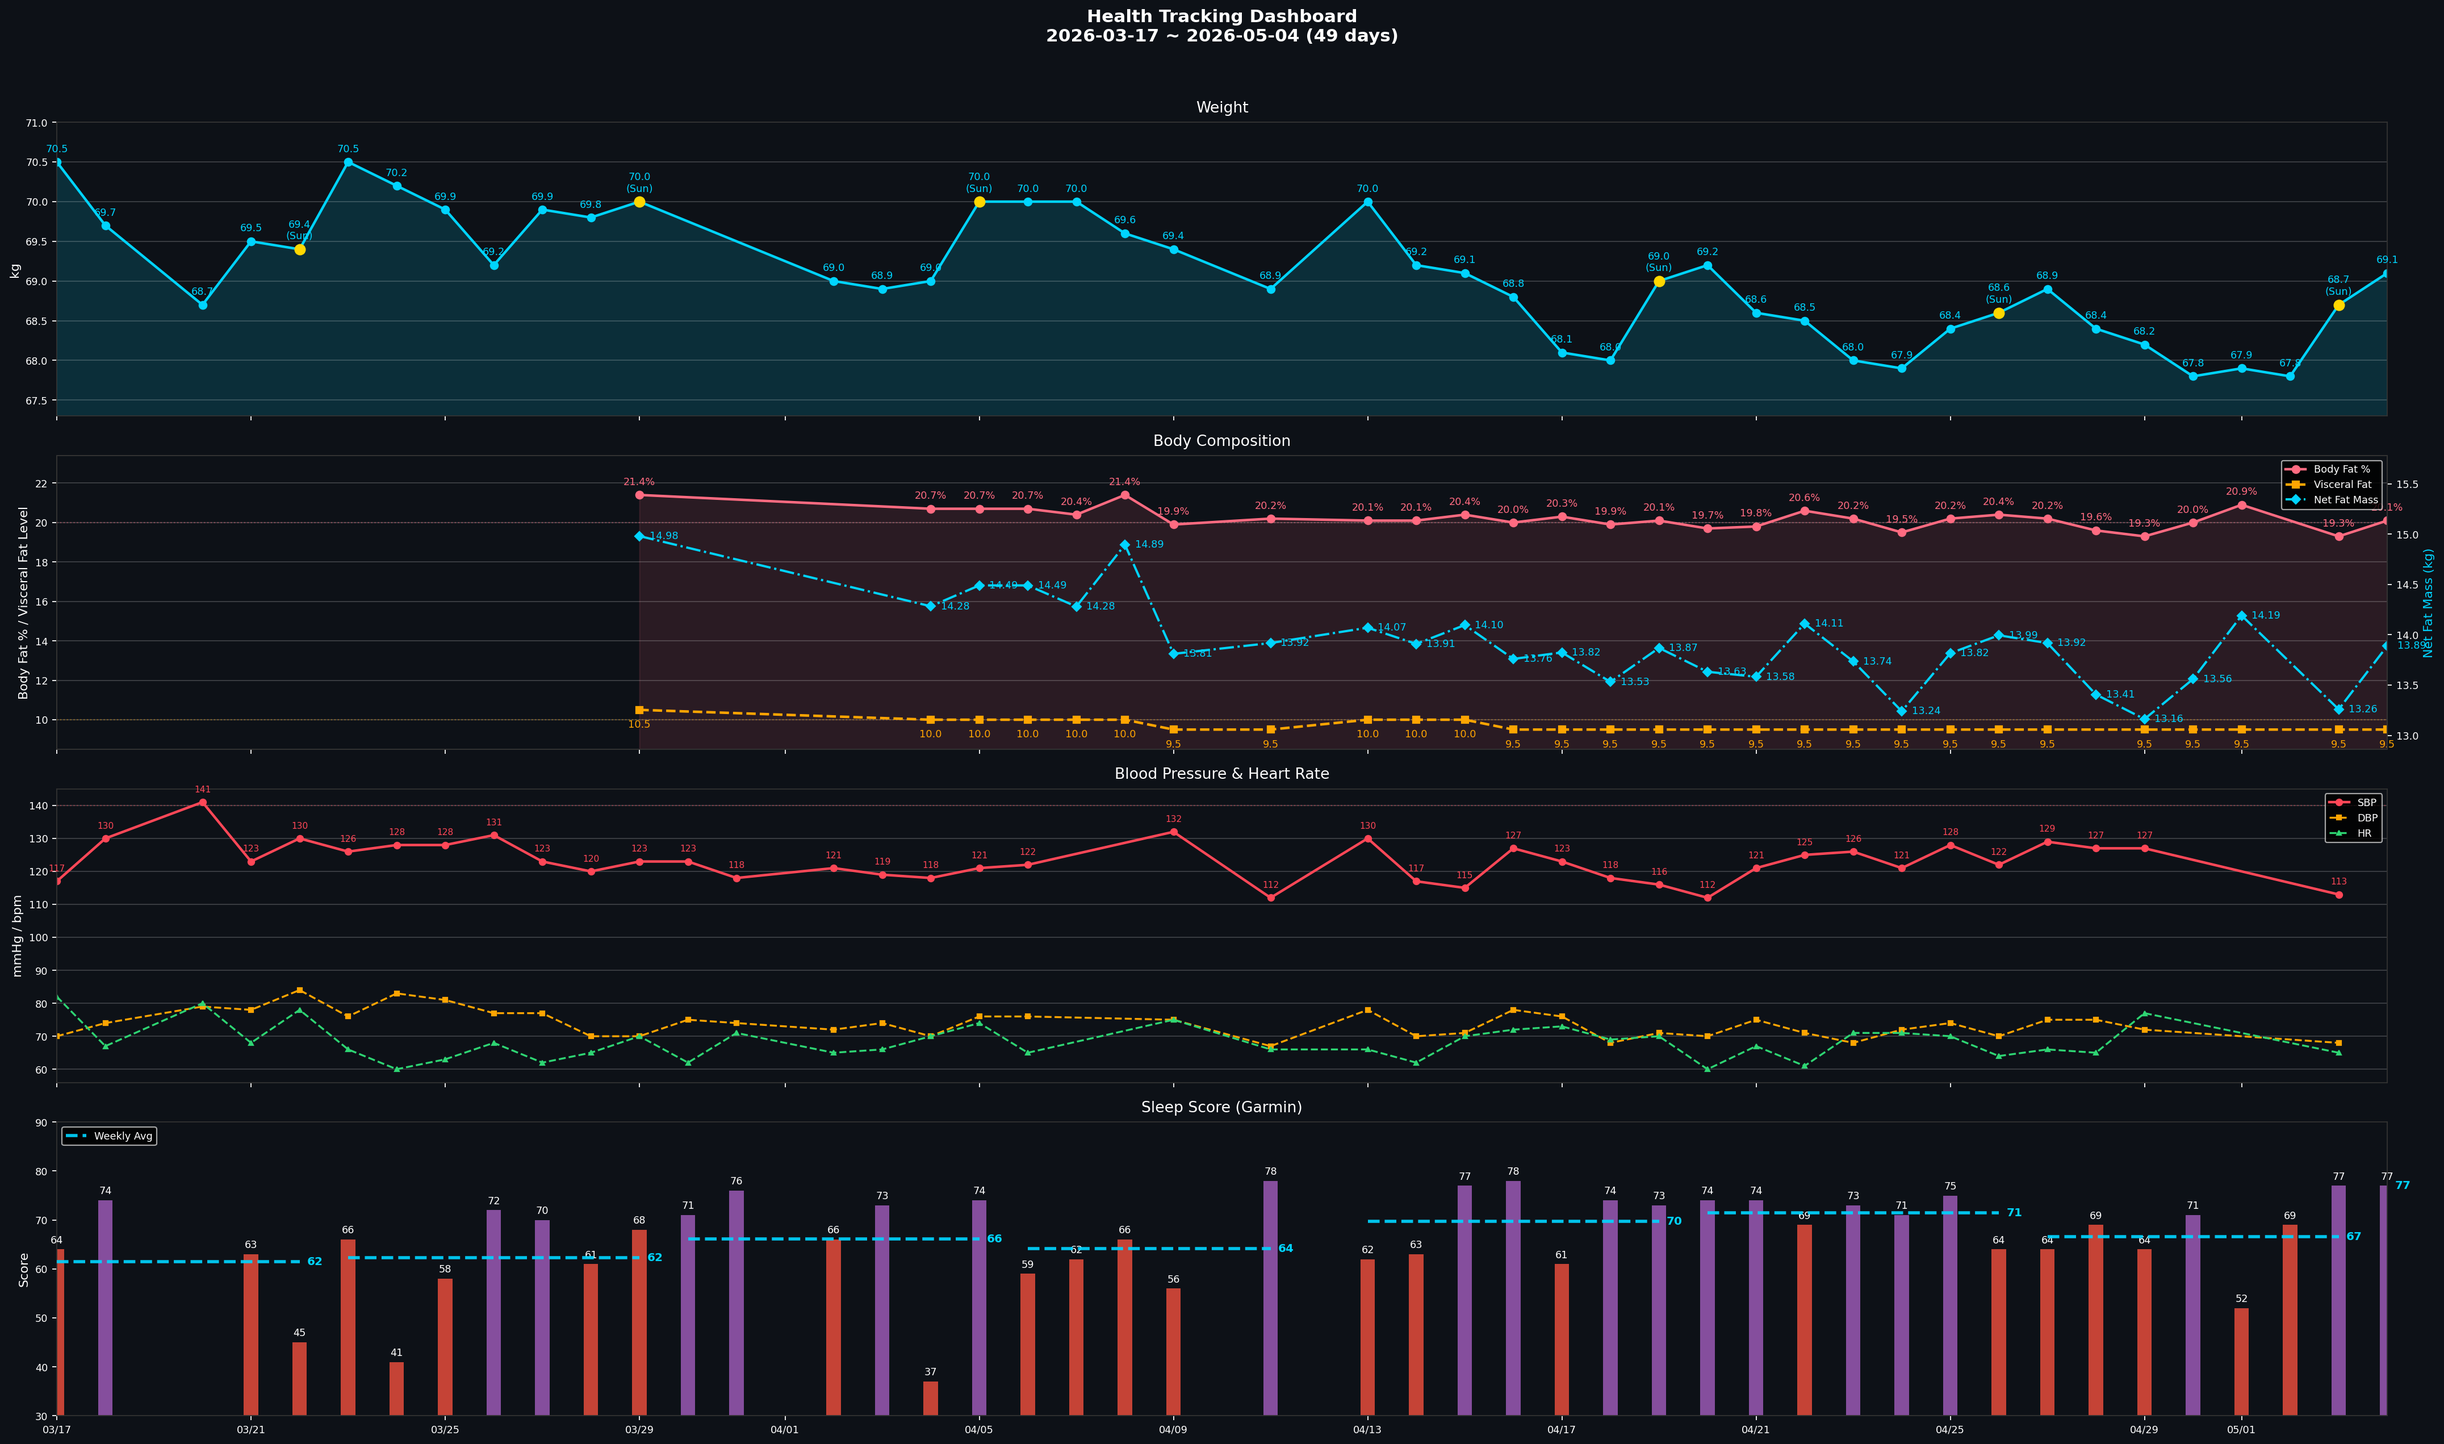
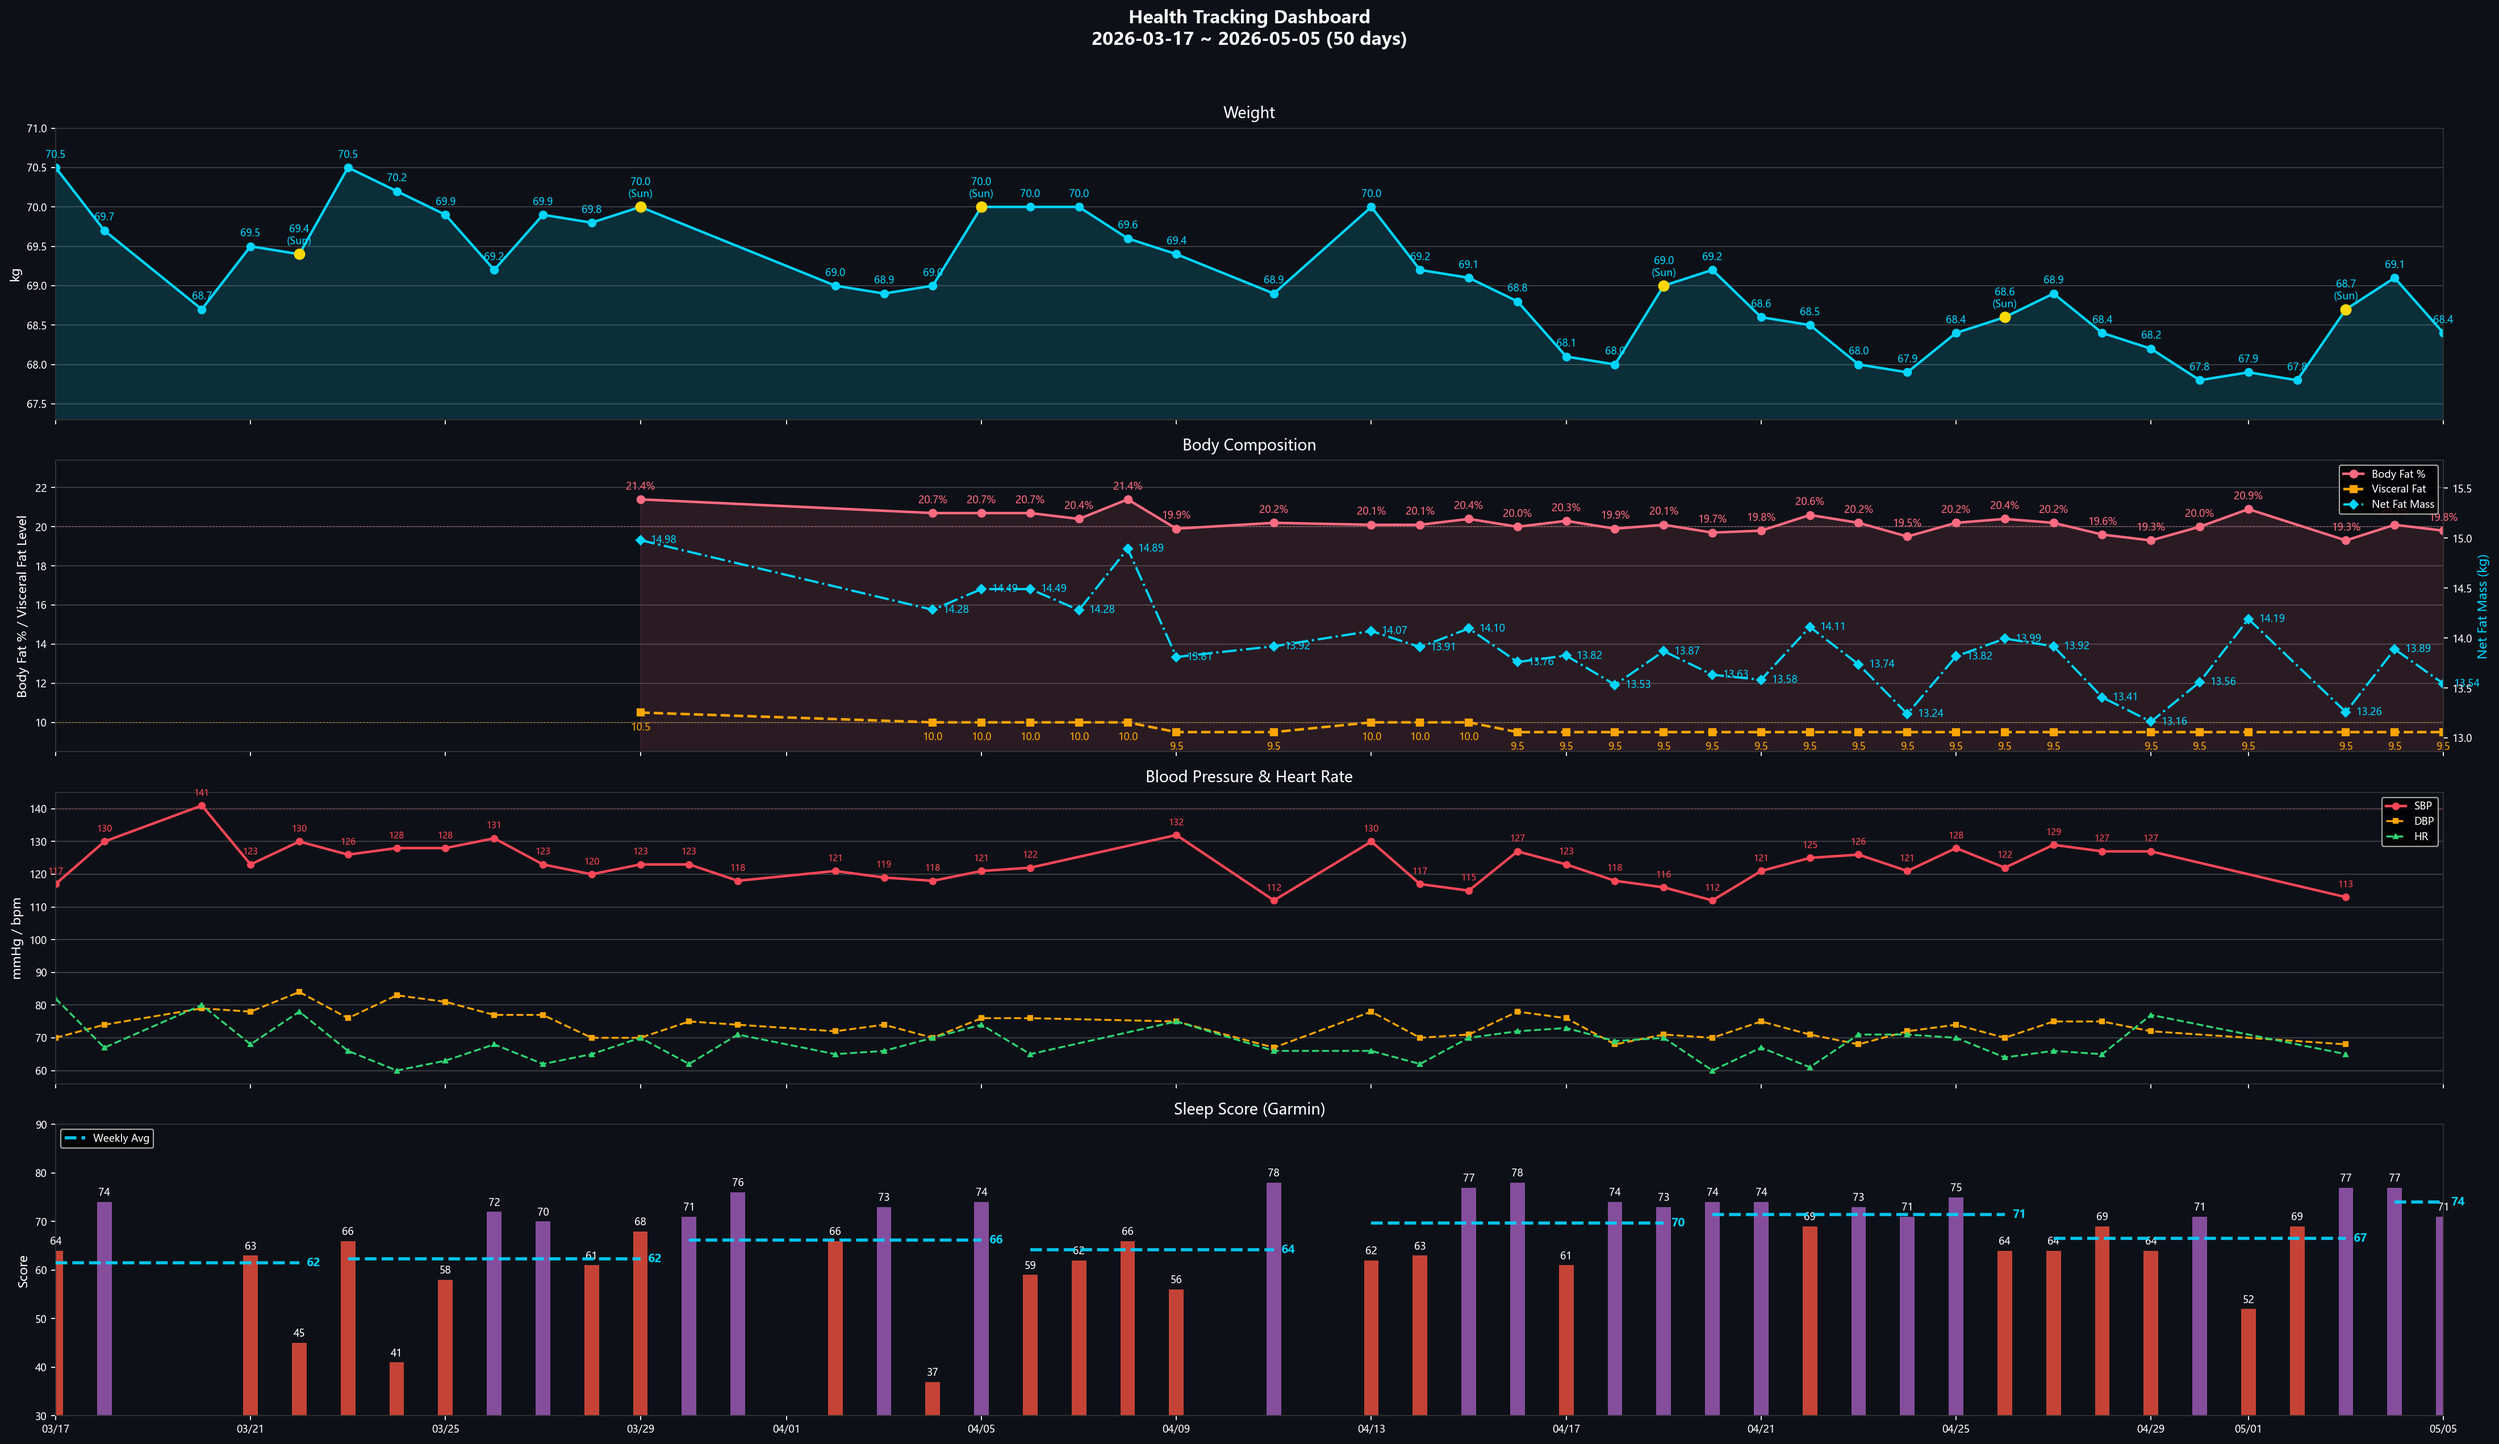
daily 2026-05-05: 體重 68.4kg、Sleep 71/BB47、SpO2 nadir 86% (POSA N1 反應佳)
- 體重 68.4 / 體脂 19.8% / 內脂 9.5
- 睡眠 23:07-05:22 (6h6m)、Sleep Score 71、BB 47、主觀恢復 4/5
- SpO2 nadir 86%、日均 95%；POSA Night 1：T90 18.4→9.7、nadir 80→86、events 20→16，初步反應佳
- 昨日飲水 2.5L (已回寫 Garmin)
- 身體信號：清
- BP：N/A

diff --git a/data.js b/data.js
@@ -9,8 +9,8 @@ window.HC_DATA = {
     lede:    { en: "Sleep, BP, lipids, uric acid — one shared metabolic root. Lifestyle stacks first; medication only after lifestyle plateaus.",
                zh: "睡眠、血壓、血脂、尿酸——共享同一個代謝根源。生活方式介入優先，等到效果平台期再考慮藥物。" },
     progressLbl: { en: "Weight progress · 70 → 65 kg", zh: "體重進度 · 70 → 65 公斤" },
-    progressMeta: { en: "Day 49 · 67.8 kg · Sat official (5/2)", zh: "第 49 天 · 67.8 公斤 · 週六正式（5/2）" },
-    startDate: { en: "Start date · Mar 17, 2026 · Last sync 5/4", zh: "起始日期 · 2026 年 3 月 17 日 · 最後同步 5/4" },
+    progressMeta: { en: "Day 50 · 67.8 kg · Sat official (5/2)", zh: "第 50 天 · 67.8 公斤 · 週六正式（5/2）" },
+    startDate: { en: "Start date · Mar 17, 2026 · Last sync 5/5", zh: "起始日期 · 2026 年 3 月 17 日 · 最後同步 5/5" },
     startWeight: 70,
     targetWeight: 65,
     currentWeight: 67.8,
@@ -27,7 +27,7 @@ window.HC_DATA = {
     },
     {
       sys: "sleep", name: { en: "Sleep Score", zh: "睡眠分數" },
-      val: "77", unit: "Garmin",
+      val: "71", unit: "Garmin",
       delta: { en: "5/4 · OSA flag: T90 18.4% (severe)", zh: "5/4 · OSA 紅旗：T90 18.4%（重度）" },
       cadence: { en: "Daily · Garmin", zh: "每日 · Garmin" },
       status: "warn",
@@ -820,14 +820,14 @@ window.HC_DATA = {
   tracker: {
     // [SBP, DBP] — gaps filled with prior reading
     bp: [
-      [121,75], [125,71], [126,68], [121,72], [128,74], [122,70], [129,75], [127,75], [127,72], [127,72], [127,72], [127,72], [113,68], [113,68],
+      [125,71], [126,68], [121,72], [128,74], [122,70], [129,75], [127,75], [127,72], [127,72], [127,72], [127,72], [113,68], [113,68], [113,68],
     ],
     // 4/21–5/4 daily weight (kg)
-    weight: [68.6, 68.5, 68, 67.9, 68.4, 68.6, 68.9, 68.4, 68.2, 67.8, 67.9, 67.8, 68.7, 69.1],
+    weight: [68.5, 68, 67.9, 68.4, 68.6, 68.9, 68.4, 68.2, 67.8, 67.9, 67.8, 68.7, 69.1, 68.4],
     // Garmin Sleep Score
-    sleep:  [74, 69, 73, 71, 75, 64, 64, 69, 64, 71, 52, 69, 77, 77],
+    sleep:  [69, 73, 71, 75, 64, 64, 69, 64, 71, 52, 69, 77, 77, 71],
     // Body Battery waking
-    bb:     [56, 60, 59, 34, 66, 60, 57, 57, 58, 51, 47, 41, 54, 49],
+    bb:     [60, 59, 34, 66, 60, 57, 57, 58, 51, 47, 41, 54, 49, 47],
   },
 
   // ===== Running — started 2026-04-26 =====

diff --git a/reviews/daily/2026-05-05.md b/reviews/daily/2026-05-05.md
@@ -1,0 +1,81 @@
+# 晨間健康紀錄 — 2026-05-05
+
+*3 分鐘。起床後立即完成。記錄，不分析。*
+
+---
+
+## 體重
+
+**今日：68.4 kg**
+**體脂率：19.8 %**
+**內臟脂肪等級：9.5**
+
+*每週六早晨為正式紀錄（排尿後、進食前；連 5 個工作日後、週末大餐前的真實低點）。其他日可選填。*
+
+---
+
+## 血壓（晨間）
+
+*起床後 1 小時內，上完廁所、進食前。坐下安靜 5 分鐘，連量兩次取第二次。*
+
+| 次數 | 收縮壓 | 舒張壓 | 心率 |
+|------|--------|--------|------|
+| 第一次 | N/A | N/A | N/A |
+| 第二次 | N/A | N/A | N/A |
+
+---
+
+## 睡眠狀態
+
+**實際就寢：** 23:07
+**實際起床：** 05:22
+**中途醒來：** 無
+**Garmin Sleep Score：** 71 / 100
+**Garmin Body Battery 起床值：** 47
+**主觀恢復感：** 4 / 5（1=極度疲憊, 5=精力充沛）
+
+### SpO2 夜間最低（7 晚趨勢）
+
+| 日期 | -6 | -5 | -4 | -3 | -2 | -1 | 今晨 |
+|------|----|----|----|----|----|----|------|
+| 日期 | 04-29 | 04-30 | 05-01 | 05-02 | 05-03 | 05-04 | 05-05 |
+| 最低 % | 79 | 79 | 84 | 84 | 85 | 80 | 86 |
+
+**今晨日均 SpO2：** 95%
+**< 88% 連續晚數：** 7（OSA 紅旗門檻：連 3 晚 < 88% → 強烈建議 PSG）
+
+**SpO2 全夜圖：** [spo2/spo2_desat_2026-05-05.png](spo2/spo2_desat_2026-05-05.png)
+**SpO2 趨勢圖：** [spo2/spo2_desat_trend.png](spo2/spo2_desat_trend.png)
+
+*Sleep Score < 65 或 Body Battery < 50 連續三天 → 重新檢視睡眠修復方案。*
+
+---
+
+## 昨日回顧
+
+**實際飲水量：** 2.5 L（目標 ≥ 2.5L；高尿酸最佳 2.8–3.0L；17:00 前完成 60-70%）✅ 達標（已回寫 Garmin Connect）
+
+---
+
+## 身體信號
+
+*任何張力、疼痛、疲勞、異常 — 或「清」。記位置、性質、強度。*
+
+| 部位 | 性質 | 強度 (0-10) |
+|------|------|-------------|
+| 清 | — | — |
+
+---
+
+## 今日計畫速記
+
+- [ ] 飲水目標：2.5 L（建議 2.5–3.0L，17:00 前完成主要量）
+- [ ] 補充品：洛神花茶 ×2 杯 + 魚油 ×2 + Vit D3K2 3000 IU + 酸櫻桃 500 mg + 鎂 400 mg + L-Citrulline 2 g + Psyllium husk 5 g ×2（鎂睡前 1-2 hr；D3K2 / Citrulline 晨間隨脂肪餐；Psyllium 午/晚餐前 30 min）
+- [ ] 運動：依當日安排
+- [ ] 活動度/伸展：依當日安排
+
+---
+
+💡 **PT 建議**：SpO2 最低 86% 連 7 晚 < 88%，OSA 紅旗已長期觸發 — 強烈建議盡快安排 PSG 多項睡眠檢查。今晨 BB 47 偏低（< 50），TST 6h6m 偏短，建議今晚 22:30 前就寢、就寢前避免酒精／重訓。
+
+*Filed: reviews/daily/2026-05-05.md*

diff --git a/reviews/weekly/2026-W19.md b/reviews/weekly/2026-W19.md
@@ -31,9 +31,9 @@
 
 |  | 一 | 二 | 三 | 四 | 五 | 六 | 日 |
 |--|----|----|----|----|----|----|-----|
-| 體重 (kg) | 69.1 | | | | | | |
-| 體脂率 (%) | 20.1 | | | | | | |
-| 內臟脂肪 | 9.5 | | | | | | |
+| 體重 (kg) | 69.1 | 68.4 | | | | | |
+| 體脂率 (%) | 20.1 | 19.8 | | | | | |
+| 內臟脂肪 | 9.5 | 9.5 | | | | | |
 
 **本週正式讀數（週六早晨）：** 待 2026-05-09
 **上週正式讀數（週六早晨）：** 待 2026-05-02 補登
@@ -46,7 +46,7 @@
 | 日期 | 收縮壓 | 舒張壓 | 心率 |
 |------|--------|--------|------|
 | 2026-05-04 (一) | N/A | N/A | N/A |
-| 2026-05-05 (二) | | | |
+| 2026-05-05 (二) | N/A | N/A | N/A |
 | 2026-05-06 (三) | | | |
 | 2026-05-07 (四) | | | |
 | 2026-05-08 (五) | | | |
@@ -64,7 +64,7 @@
 | 日期 | 就寢 | 起床 | 中途醒 | Sleep Score | Body Battery | 主觀恢復 |
 |------|------|------|--------|-------------|--------------|----------|
 | 2026-05-04 (一) | 22:39 | 05:38 | 1 次（N/A） | 77 | 49 | 3 |
-| 2026-05-05 (二) | | | | | | |
+| 2026-05-05 (二) | 23:07 | 05:22 | 0 | 71 | 47 | 4 |
 | 2026-05-06 (三) | | | | | | |
 | 2026-05-07 (四) | | | | | | |
 | 2026-05-08 (五) | | | | | | |
@@ -109,6 +109,7 @@
 | 日期 | 運動內容（含組數/時間） |
 |------|------------------------|
 | 2026-05-04 | 計畫：走路 + 大腿伸展 |
+| 2026-05-05 | 依當日安排 |
 
 ---
 
@@ -146,7 +147,7 @@
 | 晚數 | 日期 | 介入 | 仰睡 % (主觀) | T90% | nadir | events | 備註 |
 |------|------|------|--------------|------|-------|--------|------|
 | 試驗前 baseline | 5/4 | 仰睡（無介入） | ~100% | **18.4%** | **80%** | **20** | 屋馬延遲爆發 |
-| Night 1 | 5/5 | 床頭抬高 + 抱枕 | | | | | |
+| Night 1 | 5/5 | 床頭抬高 + 抱枕 | 待回填 | **9.7%** | **86%** | **16** | T90 18.4→9.7、nadir 80→86、events 20→16，初步反應佳 |
 | Night 2 | 5/6 | 同上（or 升級網球） | | | | | |
 | Night 3 | 5/7 | | | | | | |
 | Night 4 | 5/8 | | | | | | |

diff --git a/reports/daily-garmin/2026-05-05.md b/reports/daily-garmin/2026-05-05.md
@@ -1,0 +1,27 @@
+# Garmin 每日摘要 — 2026-05-05
+
+## 睡眠
+- 就寢：23:07｜起床：05:22
+- 總時長：6h 6m
+- 深眠：82 分｜REM：40 分
+- Sleep Score：71
+- Body Battery 起床值：47
+
+## 靜息心率
+- RHR：62.0 bpm
+
+## 壓力
+- 日均：22
+
+## 步數
+- 總計：491
+
+## SpO2
+- 日均：95.0%
+- 最低：86%
+
+## 飲水
+- 實際：— （Garmin Connect 未紀錄，請於 check-in 手動輸入）
+- 目標：2.00 L
+
+_Source: data/garmin/2026-05-05.json (gitignored)_

diff --git a/reports/daily-garmin/2026-05-04.md b/reports/daily-garmin/2026-05-04.md
@@ -11,18 +11,18 @@
 - RHR：56.0 bpm
 
 ## 壓力
-- 日均：24
+- 日均：29
 
 ## 步數
-- 總計：5,252
+- 總計：12,837
 
 ## SpO2
-- 日均：93.0%
+- 日均：96.0%
 - 最低：80%
 
 ## 飲水
-- 實際：0.00 L
-- 目標：2.24 L
-- 運動流汗耗水：0.24 L
+- 實際：1.55 L
+- 目標：2.32 L
+- 運動流汗耗水：0.32 L
 
 _Source: data/garmin/2026-05-04.json (gitignored)_
